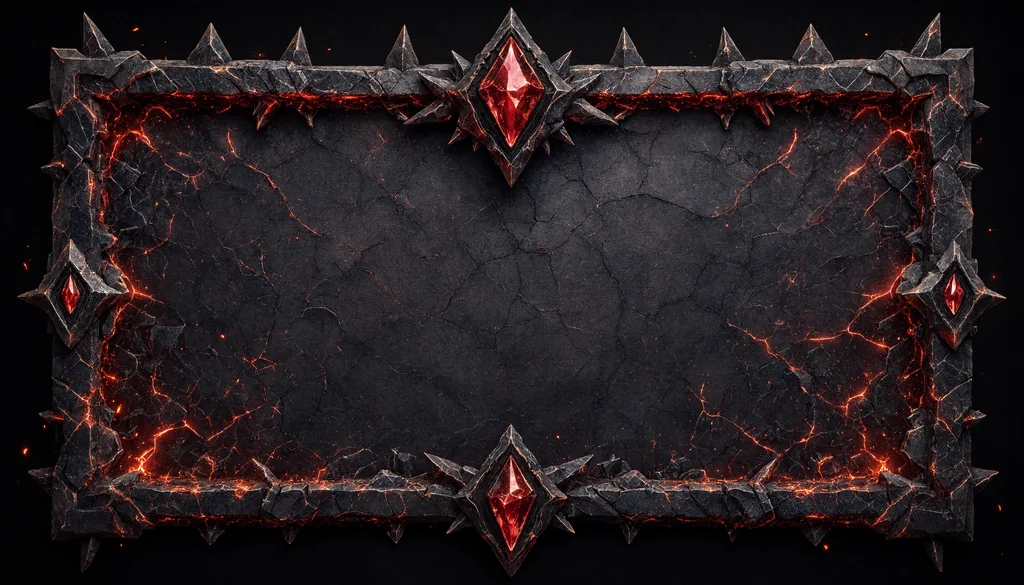
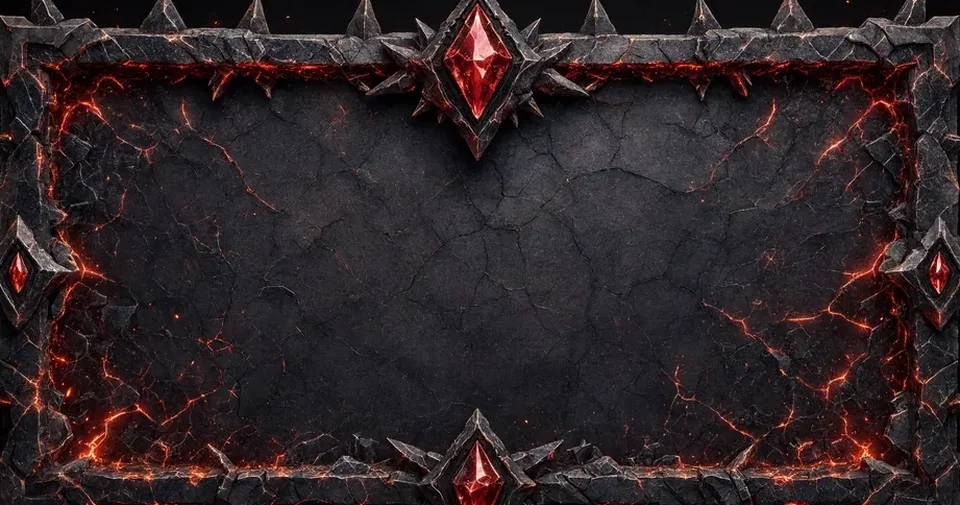
Le Heraut montre enfin son visage dans la pierre
Les huit cadres graves ont ete recadres en 960x505, sans la marge noire qui
les entourait. Le rayon suit : le ratio du cadre passe de 1024/585 a 960/505,
et l ouverture de la pierre est desormais la MEME pour les huit -- 12 % de
retrait a gauche et a droite, 18 % en haut et en bas.

Dans cette ouverture, le portrait de l Ordre tient la gauche sur 38 %, cadre
"center top" -- c est ce cadrage qui pose le visage au bon endroit pour les
huit. Le nom et la capacite tiennent la droite. Le portrait vient de
order.portrait, jamais recopie a cote : le changer dans ORDERS le change ici.

L ancien voile sombre au centre disparait. Il ternissait la gravure pour
rendre le texte lisible ; une ombre portee sous les lettres fait le meme
travail sans toucher a la pierre.

L ordre d affichage demande -- Cendres, Piques, Archers, Maudits, Pestiferes,
Gardiens, Scribes, Abysses -- vit dans HERAUTS_RAYON, a part. HEROES garde le
sien : la ceremonie de deblocage et les paliers de trophees lisent la meme
source, et la reordonner les aurait deplaces aussi. Un Heraut ajoute plus tard
sans etre range se pose a la fin plutot que de disparaitre.

Mesure sur les huit en 390 px : cadre 354x186, ratio 1,901, fenetre a 12 % et
18 %, portrait 102x119. Aucun texte ne deborde, rien ne sort du cadre.

Ce que ce commit ne fait PAS : vendre les Herauts. Le rayon paye a 400 gemmes
demandait qu un Heraut possede existe dans le code. Il n existe pas --
[…]

diff --git a/emprise-app/src/App.jsx b/emprise-app/src/App.jsx
@@ -1731,6 +1731,17 @@ const HEROES = [
 ];
 function isHeroUnlocked(hero, trophies) { return hero.unlockAt != null && trophies >= hero.unlockAt; }
 
+// L ordre d affichage du rayon de la boutique, demandé par le Commandant. Il
+// ne touche pas à HEROES, qui sert aussi la cérémonie de déblocage et les
+// paliers de trophées : réordonner la source aurait déplacé ces deux-là aussi.
+const HERAUTS_RAYON = ["cendres", "percee", "portee", "maudits", "poison", "guardian", "scribes", "devoreuse"];
+function herautsDuRayon() {
+  const ranges = HERAUTS_RAYON.map((k) => HEROES.find((h) => h.orderKey === k)).filter(Boolean);
+  // Un Héraut ajouté plus tard sans être rangé ici ne disparaît pas du rayon :
+  // il se pose à la fin plutôt que de manquer sans que personne le voie.
+  return ranges.concat(HEROES.filter((h) => !HERAUTS_RAYON.includes(h.orderKey)));
+}
+
 // Étincelles de la cérémonie de déblocage d'un Héraut : positions et minutages calculés
 // une fois pour toutes plutôt qu'au hasard à chaque rendu — sinon elles se replaceraient
 // à chaque re-rendu de React et l'effet sauterait.
@@ -6354,26 +6365,42 @@ const APP_STYLES = `
         .herauts-galerie { display: flex; flex-direction: column; gap: 12px; width: 100%; }
         .heraut-carte { display: flex; flex-direction: column; align-items: center; gap: 5px; width: 100%; }
         .heraut-cadre {
-          position: relative; width: 100%; aspect-ratio: 1024 / 585;
+          position: relative; width: 100%; aspect-ratio: 960 / 505;
           background-size: cover; background-position: center; background-repeat: no-repeat;
           border-radius: 8px;
         }
-        /* Le texte reste DANS l ouverture du cadre : 13 % de retrait de chaque
-           cote, mesure sur les images, pour qu il ne morde jamais l ornement. */
+        /* L ouverture du cadre grave. Les huit images ont ete recadrees a la
+           meme taille, sans marge noire autour de la pierre : la fenetre est
+           donc LA MEME pour les huit -- 12 % de retrait a gauche et a droite,
+           18 % en haut et en bas. Le portrait de l Ordre tient la gauche, le
+           texte la droite. */
         .heraut-dedans {
-          position: absolute; inset: 13% 13%;
+          position: absolute; top: 18%; bottom: 18%; left: 12%; right: 12%;
+          display: flex; align-items: stretch; gap: 9px;
+        }
+        /* center top : c est ce cadrage qui pose le visage au bon endroit pour
+           les onze portraits, quelle que soit leur hauteur. */
+        .heraut-portrait {
+          width: 38%; flex: none; border-radius: 4px;
+          background-size: cover; background-position: center top; background-repeat: no-repeat;
+        }
+        .heraut-texte {
+          flex: 1; min-width: 0;
           display: flex; flex-direction: column; align-items: center; justify-content: center;
           gap: 4px; text-align: center;
-          /* Un voile sombre au centre de l ouverture : les cadres sont textures
-             (pierre fendue, lave, ecorce) et le texte s y perdait. Le degrade
-             s eteint avant le bord, l ornement reste intact. */
-          background: radial-gradient(ellipse 62% 58% at 50% 50%, rgba(8,6,14,0.72) 0%, rgba(8,6,14,0) 78%);
         }
+        /* La pierre gravee est claire par endroits. L ombre portee tient lieu
+           de fond sous les lettres, sans poser de voile sur l ornement --
+           c est ce que faisait l ancien degrade, qui ternissait la gravure. */
         .heraut-nom {
           font-family: 'Cinzel', serif; font-size: 13px; font-weight: 700;
           color: var(--gold-bright); letter-spacing: 0.04em;
+          text-shadow: 0 1px 3px rgba(0,0,0,0.95), 0 0 8px rgba(0,0,0,0.85);
         }
-        .heraut-effet { font-size: 10.5px; line-height: 1.35; color: var(--bone); }
+        .heraut-effet {
+          font-size: 10.5px; line-height: 1.35; color: var(--bone);
+          text-shadow: 0 1px 3px rgba(0,0,0,0.95), 0 0 8px rgba(0,0,0,0.85);
+        }
         .heraut-etat { font-size: 10.5px; color: var(--muted); }
         .heraut-etat.verrouille { font-style: italic; }
         /* Pas encore gagne : le cadre s eteint, sans jamais disparaitre -- on
@@ -18160,7 +18187,7 @@ export default function Emprise() {
                   <p className="boutique-sous">La capacité supérieure d&apos;un Ordre, gagnée en terminant son chapitre.</p>
                   <p className="boutique-mention">Les Hérauts se jouent contre l&apos;Écho et en défi entre amis, jamais en Classé ni en tournoi. En défi, les deux camps en bénéficient.</p>
                   <div className="herauts-galerie">
-                    {HEROES.map((h) => {
+                    {herautsDuRayon().map((h) => {
                       const order = ORDERS.find((o) => o.key === h.orderKey);
                       if (!order) return null;
                       const acquis = storyProgress.completedChapters.includes(h.orderKey);
@@ -18168,8 +18195,11 @@ export default function Emprise() {
                         <div key={h.orderKey} className={`heraut-carte ${acquis ? "acquis" : ""}`}>
                           <div className="heraut-cadre" style={{ backgroundImage: `url("/herauts/${h.orderKey}.webp")` }}>
                             <div className="heraut-dedans">
-                              <span className="heraut-nom">{h.name}</span>
-                              <span className="heraut-effet">{h.desc}</span>
+                              <div className="heraut-portrait" style={{ backgroundImage: `url("${order.portrait}")` }} aria-hidden="true" />
+                              <div className="heraut-texte">
+                                <span className="heraut-nom">{h.name}</span>
+                                <span className="heraut-effet">{h.desc}</span>
+                              </div>
                             </div>
                           </div>
                           <span className={`heraut-etat ${acquis ? "" : "verrouille"}`}>
